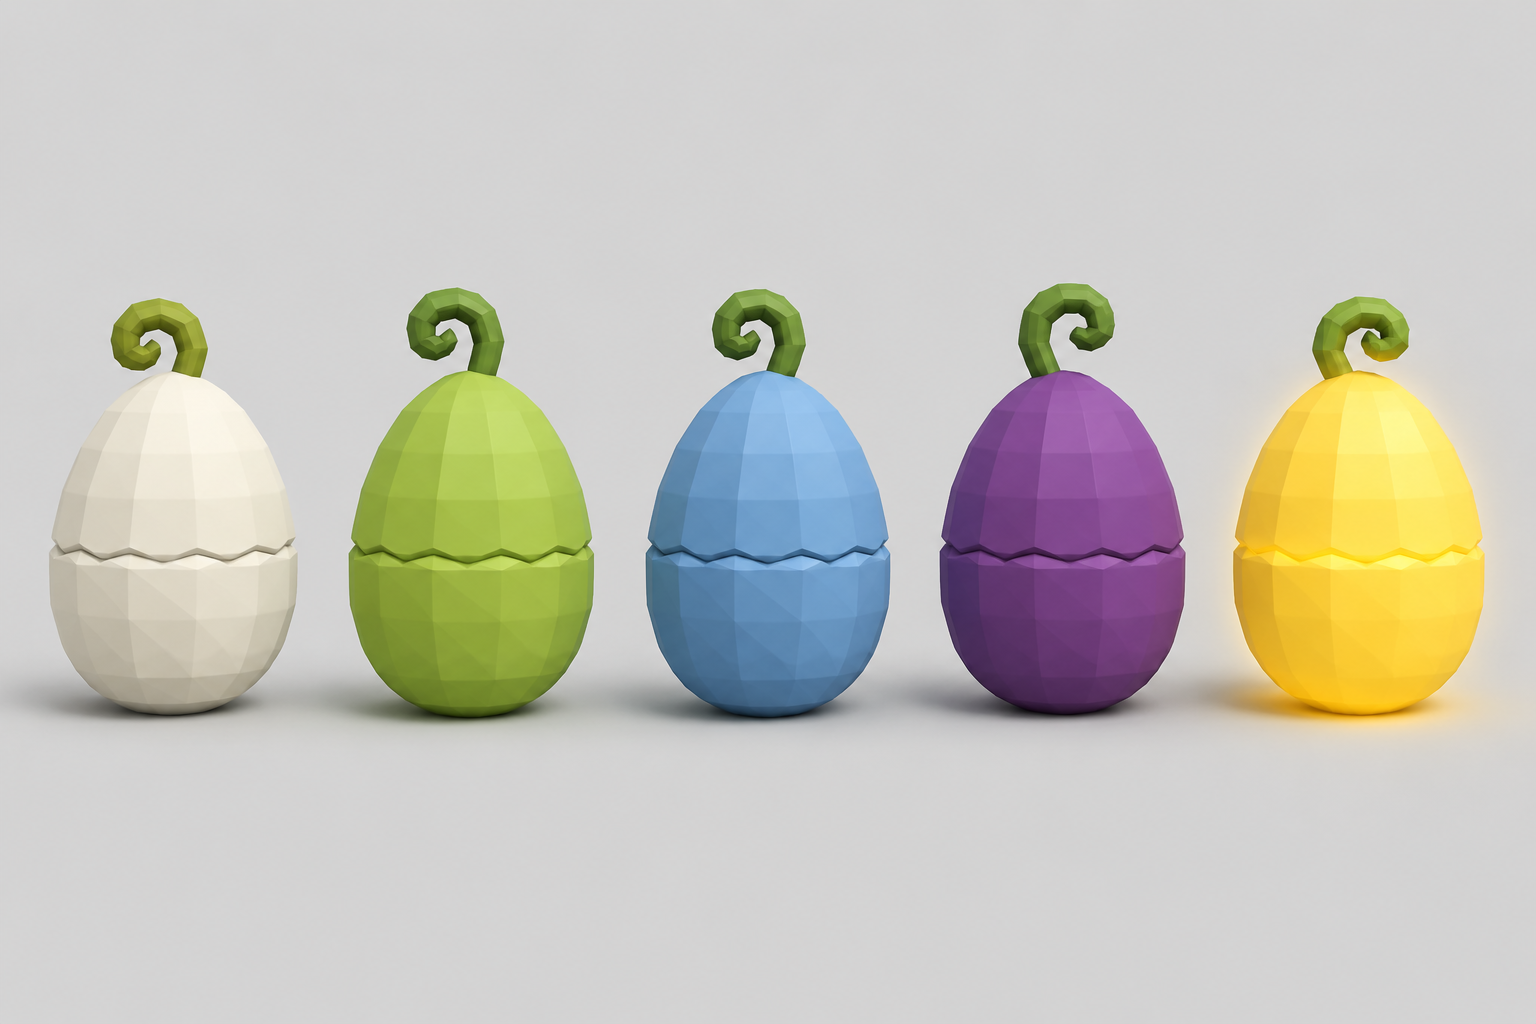
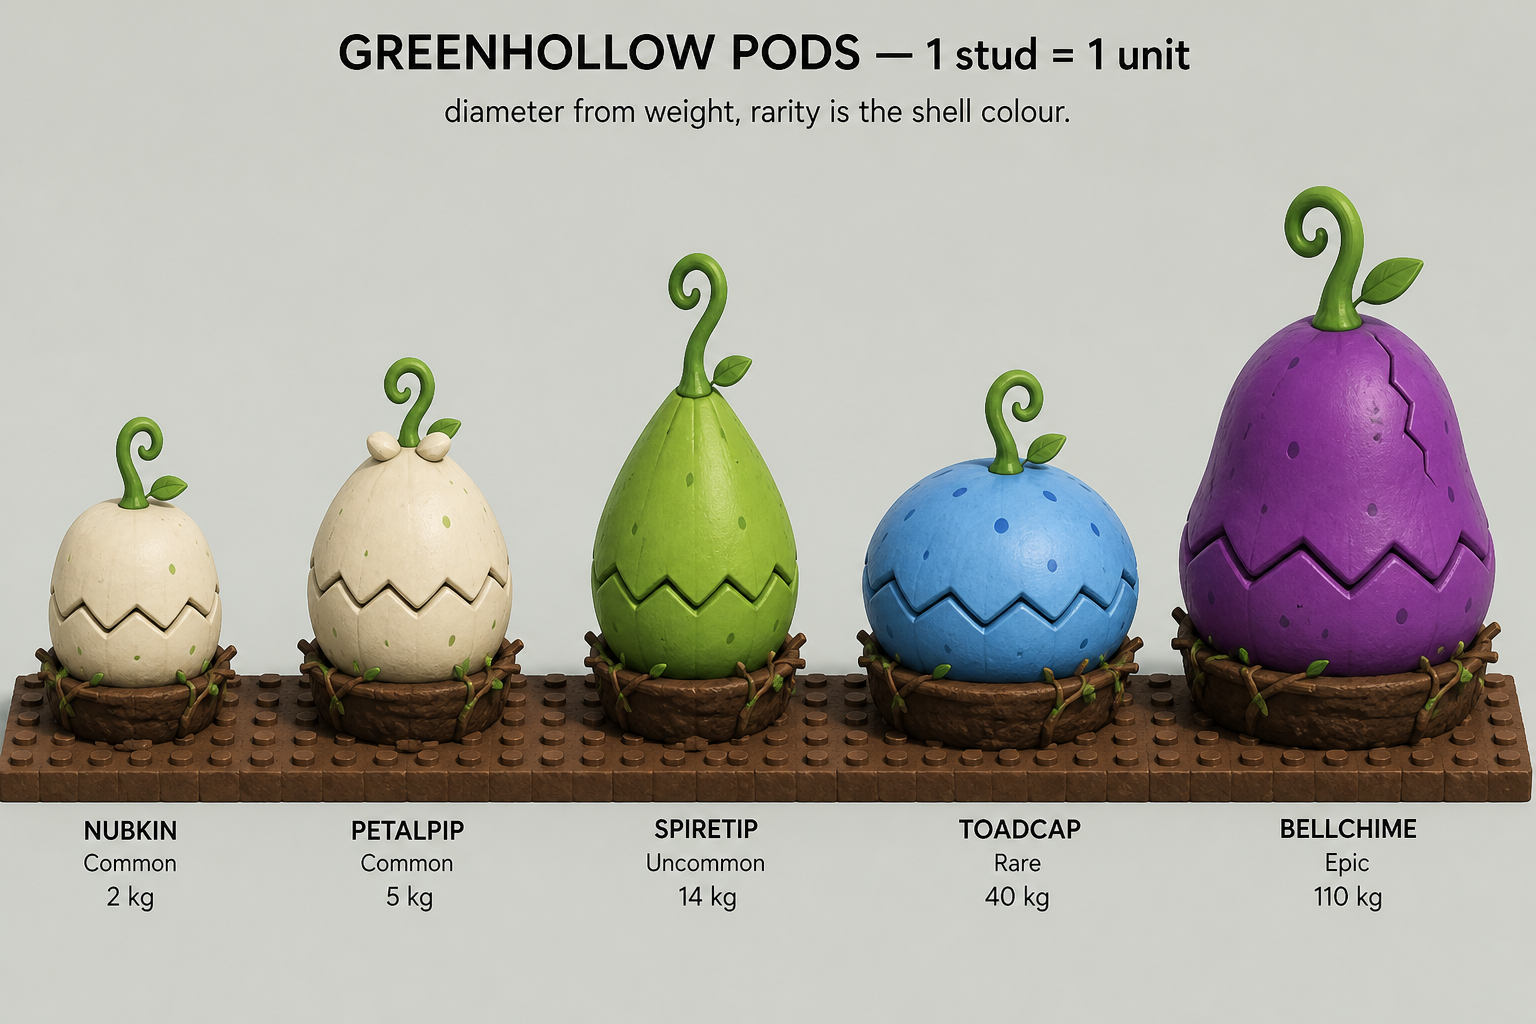
Your saved speed did nothing until you touched a pod
Reported as "the current speed I have doesn't work, I need to take pods to
recover". A join-order race, with both halves of it in the owner's own log:

  [Seed/PlotService]       nicnicniccoal -> Plot_01.
  [Seed/ThrowFX]           listening on ThrowVictim     <- client script: body up
  [Seed/PlayerDataService] nicnicniccoal loaded (ok): ... speed 14454 ...

The character is running two log lines before the profile lands.
PlayerDataService loads on a task.spawn off the PlayerAdded thread on purpose --
a fifteen-second DataStore round trip must not hold up everything else that
cares about a join -- so the body always wins that race.

CarryService.onCharacterAdded calls RefreshWalkSpeed at spawn, which reads
PlayerDataService.Get(player), gets nil, and takes the `else 0` branch. Nothing
ever ran it again.

  saved score 14454 -> walkSpeedFor = 84.95 studs/sec
  nil profile       -> walkSpeedFor = 16.00 studs/sec
                       18.8% of their speed, 5.31x slower

carryMultiplierFor(0) is exactly 1, so the fallback is the whole number.

Taking a pod "fixed" it because RefreshWalkSpeed's other four callers are all
carry events -- take, drop, bank, treadmill award -- and by then the profile had
long since loaded. Pods were not restoring anything; they were the only other
path that recomputes it.

FIX: refresh again once the profile actually arrives, in the shape
PlantService.restore already uses for the same ordering problem -- task.spawn,
[…]

diff --git a/KB/HANDOFF.md b/KB/HANDOFF.md
@@ -1867,11 +1867,36 @@ joints back after 0.18s (true)
 landing` is the teleport meter: it is the distance the head has travelled from where the body
 actually came to rest, and it must stay near zero.
 
+### The owner's own console, and it says exactly this
+
+The diagnostic line added in `0bbf543` did its job. This is from the owner's machine, on the build
+WITHOUT the fix -- one throw, trimmed to the frames that matter:
+
+```
+rootY 14.11  headY 15.14  gap  1.04 | vel 124.1 | camera 40.5 away    the flight, correct
+rootY  2.68  headY  3.61  gap  0.95 | vel 131.8 | camera 41.2 away    coming down
+rootY  1.47  headY  1.51  gap  0.70 | vel  96.8 | camera 41.9 away    THE BODY LANDS
+rootY  1.78  headY  3.10  gap  2.98 | vel  98.3 | camera 44.0 away    the box carries on
+rootY  0.50  headY  0.96  gap 16.44 | vel  65.0 | camera 55.8 away
+rootY  0.50  headY  0.96  gap 46.94 | vel   0.0 | camera 83.0 away    forty-seven studs apart
+settled and levelled at (-25.96, 2.10, -178.31)                       <- the BOX's position
+```
+
+Read `headY`: after the landing it sits at 0.96 and never moves again. The body was down, at rest,
+for the whole second half of that log. Meanwhile `gap` runs 0.70 -> 46.94 and `vel` -- which was the
+ROOT's velocity -- is still 65 when the head has been still for half a second.
+
+**The invisible box slid forty-seven studs along the ground after the body stopped**, the camera
+went with it (40.5 -> 83.0 studs from the head), the settle poll kept waiting because it was
+watching the box, and then `PivotTo` dragged the body to it. Three symptoms, one log, and every
+number in it is the argument for the fix above.
+
 ### NOT CONFIRMED
 
-Same rule as every previous round: this is not fixed until the owner says so. They have confirmed
-the landing; the flight-vs-landing split above is exactly the kind of partial pass that has twice
-been mistaken for a whole one.
+The DIAGNOSIS is confirmed, from the owner's screen. The FIX is not: they tested `0bbf543`, not
+`465f696` -- Rojo was down when they started, so Studio still had the old ThrowFX (checked with
+`script_grep`: line 7 still read "A LIMP BODY IS SIXTEEN ASSEMBLIES"). **Before believing a ragdoll
+report, check that Studio has the build being reported on.**
 
 ### Untouched
 
@@ -1881,6 +1906,70 @@ girth 0.70 / 1.64                        plot 2 plants, 0 prompts
 GrabStuds 7, GrabHoldSeconds nil         no SetNetworkOwner anywhere
 16-part impulse, Physics state, client-side nudge -- all kept
 ```
+
+## Your saved speed did nothing until you touched a pod — 2026-08-22
+
+Reported as "as I start the game, the current speed I have doesn't work, I need to take pods to
+recover". It is a join-order race, and the owner's own log has both halves of it.
+
+### The order, from their console
+
+```
+[Seed/PlotService]       nicnicniccoal -> Plot_01.
+[Seed/ThrowFX]           listening on ThrowVictim          <- a CLIENT script: the body exists
+[Seed/PlayerDataService] nicnicniccoal loaded (ok): cash 1046473, speed 14454, tier 1.
+```
+
+The character is up and running two log lines before the profile lands. `PlayerDataService`
+deliberately loads on a `task.spawn` off the `PlayerAdded` thread -- a fifteen-second DataStore round
+trip must not hold up everything else that cares about a join -- so the body always wins that race.
+
+`CarryService.onCharacterAdded` calls `RefreshWalkSpeed` at spawn. That reads:
+
+```lua
+local profile = PlayerDataService.Get(player)
+local base = GameConfig.walkSpeedFor(if profile then profile.Speed else 0)
+```
+
+`Get` returns nil, so it takes the `else 0` branch. **Nothing ever ran it again.**
+
+### What it cost, in their numbers
+
+```
+saved score 14454 -> walkSpeedFor = 84.95 studs/sec
+nil profile       -> walkSpeedFor = 16.00 studs/sec
+                     18.8% of their speed, 5.31x slower
+```
+
+`carryMultiplierFor(0)` is exactly 1, so nothing else was involved -- the fallback IS the whole
+number.
+
+### Why taking a pod fixed it
+
+`RefreshWalkSpeed` has five callers, and after the spawn one they are all carry events: take, drop,
+bank, and the treadmill award. So the first time you touched a pod the profile was long since loaded
+and the speed came right. That is not pods restoring anything; it is the only other code path that
+happens to recompute it.
+
+### The fix
+
+`CarryService.onCharacterAdded` refreshes again once the profile actually arrives, in the shape
+`PlantService.restore` already uses for the same ordering problem -- `task.spawn`, wait on
+`PlayerDataService.IsReady`, 30s deadline, then re-validate that the thing is still current
+(`player.Character ~= character` bails, because a respawn inside thirty seconds has already started
+a wait of its own).
+
+**Not** a `PlayerDataService` -> `CarryService` call: `CarryService` already requires
+`PlayerDataService`, so the hook would have been a require cycle. And still nothing new writes
+`WalkSpeed` -- `RefreshWalkSpeed` stays the only writer, called one more time.
+
+### Not fixed by this, and it cannot be
+
+If the profile lands DURING a throw, `NestService.restore()` puts back the `WalkSpeed` it captured
+at the grab, which would be the stale 16. The clean fix is for `restore()` to call
+`RefreshWalkSpeed`, which is a `NestService` -> `CarryService` require -- a cycle, and explicitly
+ruled out. Left alone on purpose: the window is the second or two of profile load, and the nearest
+nest is 300 studs down the road, so it cannot be reached in time.
 
 ## Still open
 
